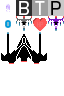
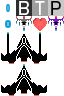
fixed errors changing file stuctures made
added multiple player sprites for event when number of projectiles
change

Changed region(s): [[0.0, 0.6562, 0.75, 1.0], [0.0938, 0.0312, 0.1562, 0.125]]

diff --git a/src/components/character.js b/src/components/character.js
@@ -68,9 +68,75 @@ Crafty.c('Character', {
 	},
 });
 
-Crafty.c('Player', {
+Crafty.c('PlayerSingle', {
 	init: function() {
-		this.requires('Character, spr_player_fixed, Controls, Score');
+		this.requires('Character, spr_player_single, Controls, Score');
+
+		var pcParticles = Crafty.e("Actor, Particles")
+		.particles(particleThrust);
+
+		var pcScore = Crafty.e("2D, DOM, Text")
+		.attr({ x:0, y:0 })
+		.textFont({ size: '20px', weight: 'bold', align: 'center' });
+
+		Crafty.e('2D, DOM, Color')
+		.attr({ x: 0, y: (Game.map_grid.height * Game.map_grid.tile.height) - 16, w: (Game.map_grid.width * Game.map_grid.tile.width), h:16 })
+		.color('#ff5959');
+
+		var pcLifeBar = Crafty.e('2D, DOM, Color, Text')
+		.attr({ x: 0, y: (Game.map_grid.height * Game.map_grid.tile.height) - 16, w: (Game.map_grid.width * Game.map_grid.tile.width), h:16 })
+		.color('#63C788')
+		.text(this.getLife())
+		.css({"font-size":"20px","text-align":"center","display":"inline-block","vertical-align":"middle"})
+		.textFont({size:'12px', weight: 'bold'});
+
+		
+
+		this.bind('EnterFrame', function(dt) {
+			pcParticles.x = this.x + 21.5;
+			pcParticles.y = this.y + 26;
+
+			pcScore.text(this.getScore());
+
+			pcLifeBar.attr({ x: 0, y: (Game.map_grid.height * Game.map_grid.tile.height) - 16, w: ((Game.map_grid.width * Game.map_grid.tile.width) * (this.getLife()) / 100), h:16 });
+			pcLifeBar.text(this.getLife());
+
+		});
+		this.onHit("Solid", function(hit) {
+			if(hit[0].obj.getName() == "enemy")
+			{
+				this.takeDamage(30);
+				hit[0].obj.takeDamage(100);
+			}
+			if(hit[0].obj.getName() == "health")
+			{
+				this.takeDamage(-10);
+				hit[0].obj.destroy();
+			}
+			if( !this.isAlive() ) {
+				this.particleDestroy();
+				Crafty.e('Actor, Particles').particles(particleDestory).at( Math.floor( this.x / Game.map_grid.tile.width ), Math.floor( this.y / Game.map_grid.tile.height ) );
+				pcParticles.destroy();
+				setTimeout(function() { Crafty.scene('GameOver'); }, 1500);
+			}
+		});
+
+		this.onHit("Wall", function(hit) {
+			for (var i = 0; i < hit.length; i++) {
+				if (hit[i].normal.x === 1) {
+					this.x = hit[i].obj.x + hit[i].obj.w;
+				}
+				if (hit[i].normal.x === -1) {
+					this.x = hit[i].obj.x - this.w;
+				}
+			}
+		});
+	},
+});
+
+Crafty.c('PlayerDual', {
+	init: function() {
+		this.requires('Character, spr_player_dual, Controls, Score');
 
 		var pcParticles = Crafty.e("Actor, Particles")
 		.particles(particleThrust);

diff --git a/src/scenes.js b/src/scenes.js
@@ -24,7 +24,8 @@ Crafty.scene('Loading', function() {
     });
 
     Crafty.sprite(48, 32, 'assets/16x16.png', {
-    	spr_player_fixed: [0, 1]
+    	spr_player_dual:  [0, 1],
+      spr_player_single: [0, 2]
     });
 
     Crafty.scene('LevelOne');
@@ -33,9 +34,9 @@ Crafty.scene('Loading', function() {
 
 Crafty.scene('LevelOne', function() {
   //create boundries for canvas.
-  for (var x = -1; x <= Game.map_grid.width; x++) {
+  for (var x = -2; x <= Game.map_grid.width + 1; x++) {
   	for (var y = -1; y <= Game.map_grid.height; y++) {
-  		var at_edge = x == -1 || x == Game.map_grid.width || y == -1 || y == Game.map_grid.height;
+  		var at_edge = x == -2 || x == Game.map_grid.width + 1 || y == -2 || y == Game.map_grid.height + 1;
 
   		if (at_edge) {
   			Crafty.e('Wall').at(x, y);
@@ -44,11 +45,11 @@ Crafty.scene('LevelOne', function() {
   }
 
   // Create Player Object
-  Crafty.e('Player').at(14, 35);
+  Crafty.e('PlayerSingle').at(14, 35);
 
   var it = 0;
   //Create enemy spawns every xxxxms
-  Game.Delay = Crafty.e("Delay").delay(function() {
+  Game.gameDelay = Crafty.e("Delay").delay(function() {
   	Crafty.e('Enemy').at( Math.floor( Math.random() * 30 ), 0 ).setName("enemy");
   	console.log(it);
   	it++;
@@ -80,11 +81,11 @@ Crafty.scene('LevelTwo', function() {
   }
 
   // Create Player Object
-  Crafty.e('Player').at(15, 35);
+  Crafty.e('PlayerDual').at(15, 35);
 
   var it = 0;
   //Create enemy spawns every xxxxms
-  Game.Delay = Crafty.e("Delay").delay(function() {
+  Game.gameDelay = Crafty.e("Delay").delay(function() {
   	if( Math.random() < 0.2 ) {
   		Crafty.e('TierTwo').at( Math.floor( Math.random() * 30 ), 0 ).setName("enemy");
   	} else {

diff --git a/src/components/core.js b/src/components/core.js
@@ -70,8 +70,12 @@ Crafty.c('Controls', {
 		.enableControl();
 		this.bind('KeyDown', function(e) {
 			if( e.key === 32 ) {
-				Crafty.e('Plasma').create( this.x, this.y  - 16, 3, this);
-				Crafty.e('Plasma').create( this.x + 32, this.y  - 16, 3, this);
+				if(!this.__c.PlayerSingle) {
+					Crafty.e('Plasma').create( this.x, this.y - 16, 3, this);
+					Crafty.e('Plasma').create( this.x + 32, this.y - 16, 3, this);
+				} else {
+					Crafty.e('Plasma').create( this.x + 16, this.y - 16, 3, this);
+				}
 			}
 		});
 	}

diff --git a/index.html b/index.html
@@ -3,10 +3,10 @@
 <head>
 	<script src="lib/crafty.js"></script>
 	<script src="src/game.js"></script>
-	<script src="src/components.js"></script>
+	<script src="src/components/core.js"></script>
 	<script src="src/scenes.js"></script>
-	<script src="src/character.js"></script>
-	<script src="src/projectiles.js"></script>
+	<script src="src/components/character.js"></script>
+	<script src="src/components/projectiles.js"></script>
 	<script>
 	window.addEventListener('load', Game.start);
 	</script>

diff --git a/src/game.js b/src/game.js
@@ -20,7 +20,8 @@ Game = {
 	start: function() {
 		Crafty.init(Game.width(), Game.height());
 		Crafty.background('rgb(50, 50, 50)');
-		var Delay;
+		var gameDelay;
+		var playerScore;
 		Crafty.scene('Loading');
 	}
 }
